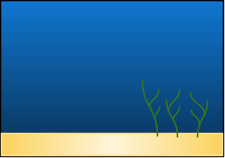
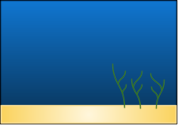
adjusted tide graphic and make better fit for radar image

Changed region(s): [[0.0, 0.84, 1.0, 1.0], [0.0, 0.0, 1.0, 0.336]]

diff --git a/coreScript.js b/coreScript.js
@@ -89,12 +89,12 @@ function updateResources(what) {
         document.getElementById('forecast').src = 'resources/tmp/forecastGrid.html?' + now.getMilliseconds();
     }
 
-    // TODO: Shouldn't need to asynchronously update.
-    if (what === 'timed') {
-        // auto updte in five minutes
-        setTimeout(updateResources, 5 * min);
-        console.log('rerunning updateResources in 5 minutes.');
-    }
+    // TODO: Shouldn't need to asynchronously update as this is done upon fetch.
+    // if (what === 'timed') {
+    //     // auto updte in five minutes
+    //     setTimeout(updateResources, 5 * min);
+    //     console.log('rerunning updateResources in 5 minutes.');
+    // }
 }
 
 /** buildLunarData
@@ -225,7 +225,7 @@ async function fetchMoonImage(when) {
 
 /** fetchResources
  * uses a cgi-calls to rebuild the various images, tables and media
- * @param {'all' | 'tidegraph' | 'tidegraphic' | 'windgraph' | 'tidetable' | 'forecast'} 'timed' is reserved for background
+ * @param {'all' | 'tidegraph' | 'tidegraphic' | 'windgraph' | 'tidetable' | 'forecast'}
  * @param {'metric' | 'imperial' | null} if provided overrides automatic toggle.
  * trick for relaunching functions with parameters:
  *      // given a function fp(a, b)
@@ -236,7 +236,7 @@ async function fetchResources(what, units) {
     if (!what) what = 'all';
     if (!units) units = lastUnit++ % 2 > 0 ? 'metric' : 'imperial';
 
-    if (what === 'tidegraph' || what === 'all' || what === 'timed') {
+    if (what === 'tidegraph' || what === 'all') {
         let url = `http://localhost:8000/cgi-bin/tidesGraph.py?units=${units}`;
         await fetch(url)
             .then((response) => response.text())
@@ -249,7 +249,7 @@ async function fetchResources(what, units) {
             });
     }
 
-    if (what === 'tidegraphic' || what === 'all' || what === 'timed') {
+    if (what === 'tidegraphic' || what === 'all') {
         let url = `http://localhost:8000/cgi-bin/tidesGraphic.py?units=${units}`;
         await fetch(url)
             .then((response) => response.text())
@@ -262,7 +262,7 @@ async function fetchResources(what, units) {
             });
     }
 
-    if (what === 'tidetable' || what === 'all' || what === 'timed') {
+    if (what === 'tidetable' || what === 'all') {
         let url = `http://localhost:8000/cgi-bin/tidesTable.py?units=${units}`;
         await fetch(url)
             .then((response) => response.text())
@@ -275,7 +275,7 @@ async function fetchResources(what, units) {
             });
     }
 
-    if (what === 'windgraph' || what === 'all' || what === 'timed') {
+    if (what === 'windgraph' || what === 'all') {
         let url = `http://localhost:8000/cgi-bin/windGraph.py`;
         await fetch(url)
             .then((response) => response.text())
@@ -288,7 +288,7 @@ async function fetchResources(what, units) {
             });
     }
 
-    if (what === 'forecast' || what === 'all' || what === 'timed') {
+    if (what === 'forecast' || what === 'all') {
         let url = `http://localhost:8000/cgi-bin/forecast.py`;
         await fetch(url)
             .then((response) => response.text())
@@ -301,18 +301,19 @@ async function fetchResources(what, units) {
             });
     }
 
-    if (what === 'timed') {
-        setTimeout(fetchResources, 15 * min); // do it again in 15 minutes
+    if (what === 'all') {
+        // rinse and repeat
+        setTimeout(()=>{fetchResources('all')}, 10 * min); // do it again in 10 minutes
     }
 }
 
-/** updateRadarView
+/** updateRadar
  * update the NOAA NWS gif for current radar in KOKX
  * Initial image set in html should be...
  *    "https://radar.weather.gov/ridge/standard/KOKX_loop.gif"
  * TODO: Include in updateResources
  */
-function updateRadarView() {
+function updateRadar() {
     try {
         let now = Date.now();
         let origImg = document.getElementById('radar').src;
@@ -320,11 +321,11 @@ function updateRadarView() {
         document.getElementById('radar').src = origImg + '?' + now; // trick to force an image refresh with the same URL
     } catch (err) {
         // whatever has gone wrong just try again in a couple of seconds
-        setTimeout(updateRadarView, 20 * sec); // rerun in a second or so
+        setTimeout(updateRadar, 20 * sec); // rerun in a second or so
         return;
     }
 
-    setTimeout(updateRadarView, 7 * min); // rerun in 7 minutes
+    setTimeout(updateRadar, 7 * min); // rerun in 7 minutes
 }
 
 /** buildAstroData
@@ -370,7 +371,7 @@ function buildWeatherPage() {
     fetchResources(); // refresh all our various resources
     setTimeout(buildLunarData, 3 * sec); // hold off a bit and launch to
     setTimeout(updateSunRiseSunset, 5 * sec); // first run
-    setTimeout(updateRadarView, 1 * min); // first run in a minutes
+    setTimeout(updateRadar, 1 * min); // first run in a minutes
     setTimeout(updateResources, 2 * min); // first run in 2 minutes
 }
 

diff --git a/WeatherKiosk.html b/WeatherKiosk.html
@@ -32,8 +32,8 @@
                 </div>
                 <div class="wrapper">
                     <div class="box1"><img id="tidegraph" src="resources/tmp/tideGraph.png" alt="Tide Graph" width="100%"/></div>
-                    <div class="boxR"><!--img id="radar" src="https://radar.weather.gov/ridge/standard/KOKX_loop.gif" alt="NOAA Radar" width="100%"--></div>
-                    <div class="box2"><img id="tidegraphic" style="position: relative; display: inline-block; left: 50%; transform: translate(-50%);" src="resources/tmp/tideGraphic.png" alt="Tide Graphic"/></div>
+                    <div class="boxR"><!--blank space for underlay of radar graphics--></div>
+                    <div class="box2"><img id="tidegraphic" src="resources/tmp/tideGraphic.png" alt="Tide Graphic"/></div>
                     <div class="box3"><iframe id="tidetable" class="import" src="resources/tmp/tideTable.html"></iframe></div>
                     <div class="box4"><img id="windgraph" src="resources/tmp/windGraph.png" alt="Tide Graph" width="99%"/></div>
                     <div class="box5"><iframe class="import" id="forecast" src="resources/tmp/forecastGrid.html"></iframe></div>

diff --git a/WeatherKiosk.css b/WeatherKiosk.css
@@ -13,7 +13,7 @@ body {
 
 .import {
     position: relative;
-    width: 100%;
+    width: 113%;
     height: 100%;
     border-width: 0px;
 }
@@ -183,8 +183,15 @@ div.header > .logo {
     position: fixed;
     z-index: -20;
     top:    86px;
-    left:  710px;
+    left:  723px;
     right: 780px;
+}
+
+img#tidegraphic {
+    position: relative;
+    display: inline-block;
+    left: 58%;
+    transform: translate(-50%);
 }
 
 .phase {

diff --git a/cgi-bin/tidesGraphic.py b/cgi-bin/tidesGraphic.py
@@ -98,20 +98,19 @@ def makeTideGraphic(extremaDF, detailDF=None):
     implot.axes.get_yaxis().set_visible(False)
 
     hgt = 125 #158
-    wdt = 222 #225
+    wdt = 178 #225
     lvl = 110
 
     upcoming = extremaDF[extremaDF['DateTime']>datetime.now(tz=EST)]
     nxtTide = upcoming.iloc[0]
-    plt.text(wdt/2, 50, nxtTide['DateTime'].strftime("%I:%M %p"), fontsize=30.0, ha='center' )
-    plt.text(wdt/2, 90, lbl[nxtTide['Type']], fontweight='heavy', color='blue', fontsize=24.0, ha='center')
-
+    plt.text(wdt/2, 40, nxtTide['DateTime'].strftime("%I:%M %p"), fontsize=26.0, ha='center' )
+    plt.text(wdt/2, 80, lbl[nxtTide['Type']], fontweight='heavy', color='blue', fontsize=20.0, ha='center')
 
     if nxtTide['Type'] == 'H':
         len = -50
     else:
         len = 50
-    plt.arrow(wdt/6, 90-len/2, 0, len, width=6., color="cyan",
+    plt.arrow(wdt/6, 90-len/4, 0, len, width=6., color="cyan",
                 length_includes_head=True, alpha=0.6, fill=False, linewidth=2.0)
 
     # Somehwat kludgy since we know the range is between -1 and 10ft

diff --git a/cgi-bin/forecast.py b/cgi-bin/forecast.py
@@ -71,8 +71,8 @@ We want to run this command peridoically to update the clock. I run it within py
 we run the risk of memory leaks so I will run it from a fork from the kisok
 """
 if __name__ == '__main__':                                                               #01234567890123
-    	prog = "Forecast        "
-	logging.basicConfig(filename='WeatherKiosk.log', format='%(levelname)s:\t%(asctime)s\t{prog}\t%(message)s', level=logging.INFO)
+    prog = "Forecast     "
+    logging.basicConfig(filename='WeatherKiosk.log', format=f'%(levelname)s:\t%(asctime)s\t{prog}\t%(message)s', level=logging.INFO)
     logging.info("Build wind graph...")
 
     forecastFile = "forecastGrid.html"
